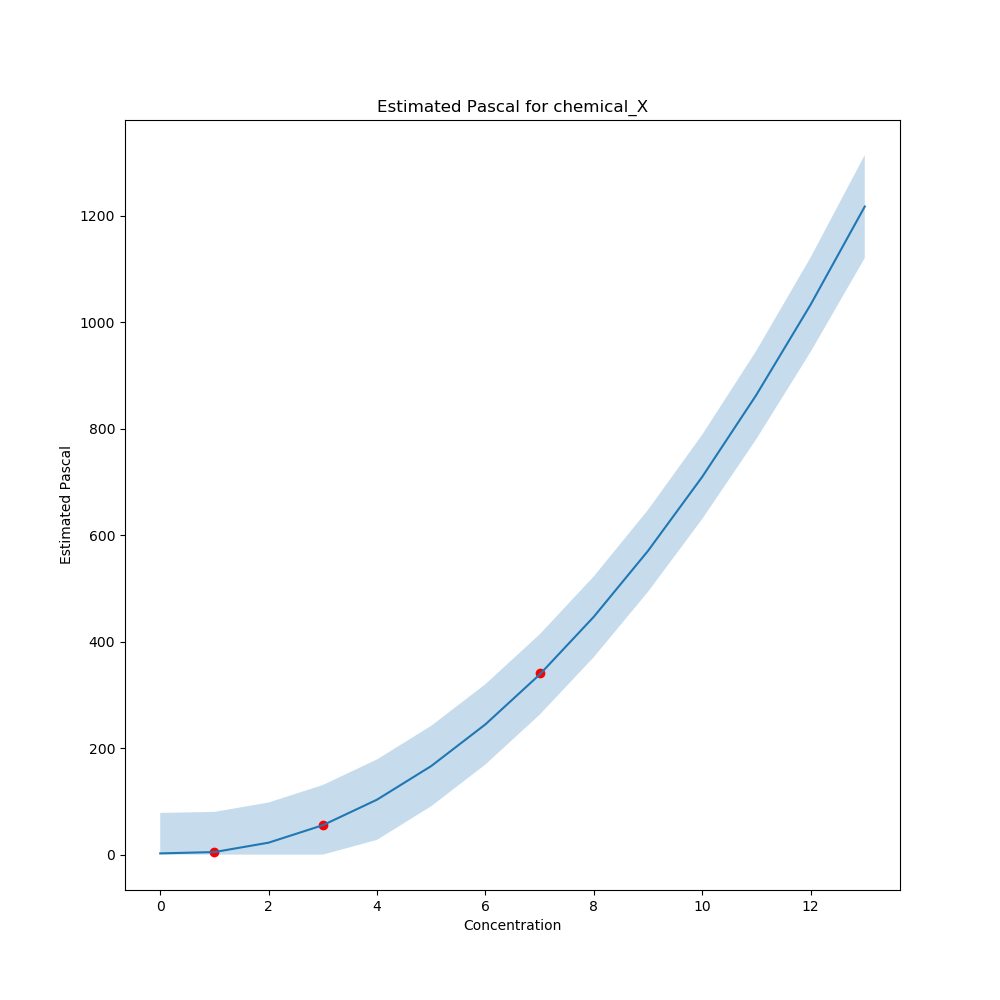
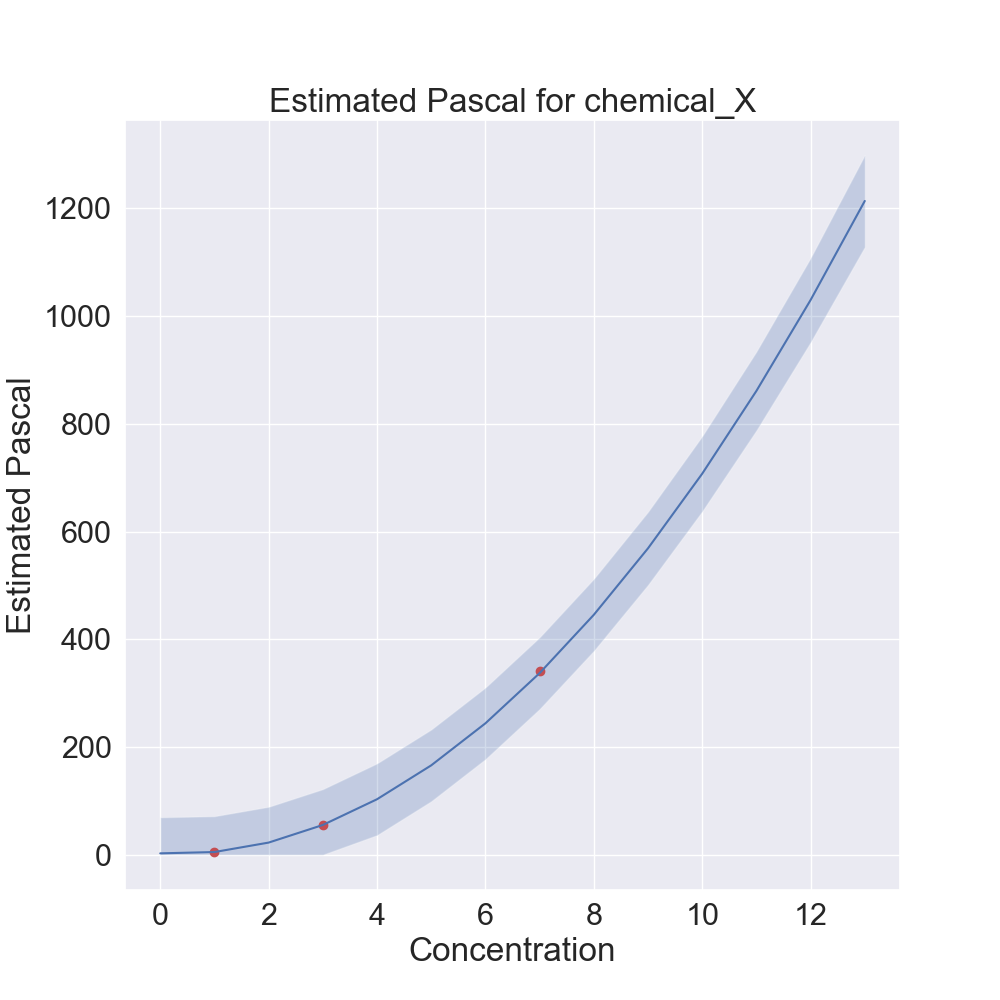
Fixed font

diff --git a/pascal_estimator/modules/estimators.py b/pascal_estimator/modules/estimators.py
@@ -6,6 +6,7 @@ from sklearn.linear_model import BayesianRidge
 from sklearn.preprocessing import PolynomialFeatures
 
 import matplotlib.pyplot as plt
+import seaborn as sns
 
 
 class BayesianPolyEst:
@@ -72,6 +73,9 @@ class BayesianPolyEst:
     def validate(self, X, y):
         """
         """
+        sns.set(
+            font_scale=2
+        )
         line = np.array([i for i in range(X.max() * 2)]).reshape(-1, 1)
         X_poly = self.transformer.fit_transform(line)
         plt.figure(figsize=(10, 10))
